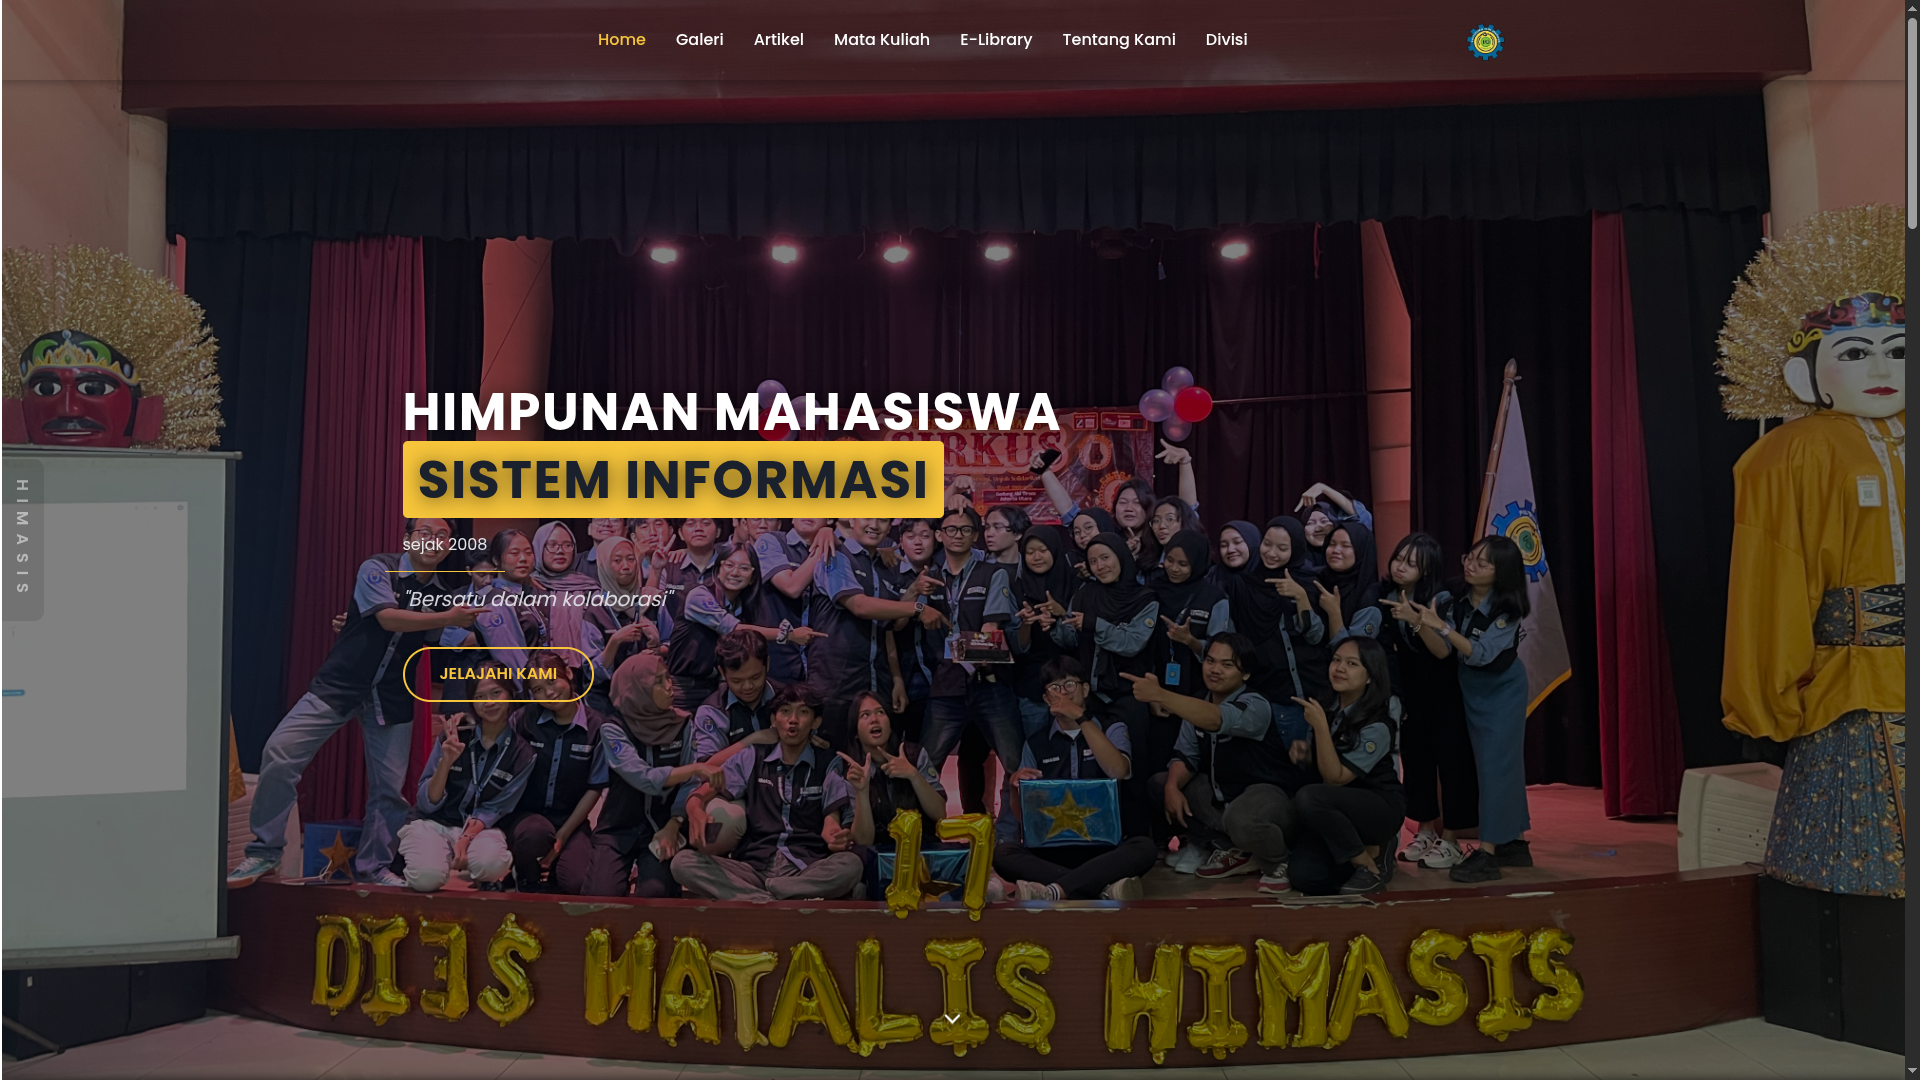
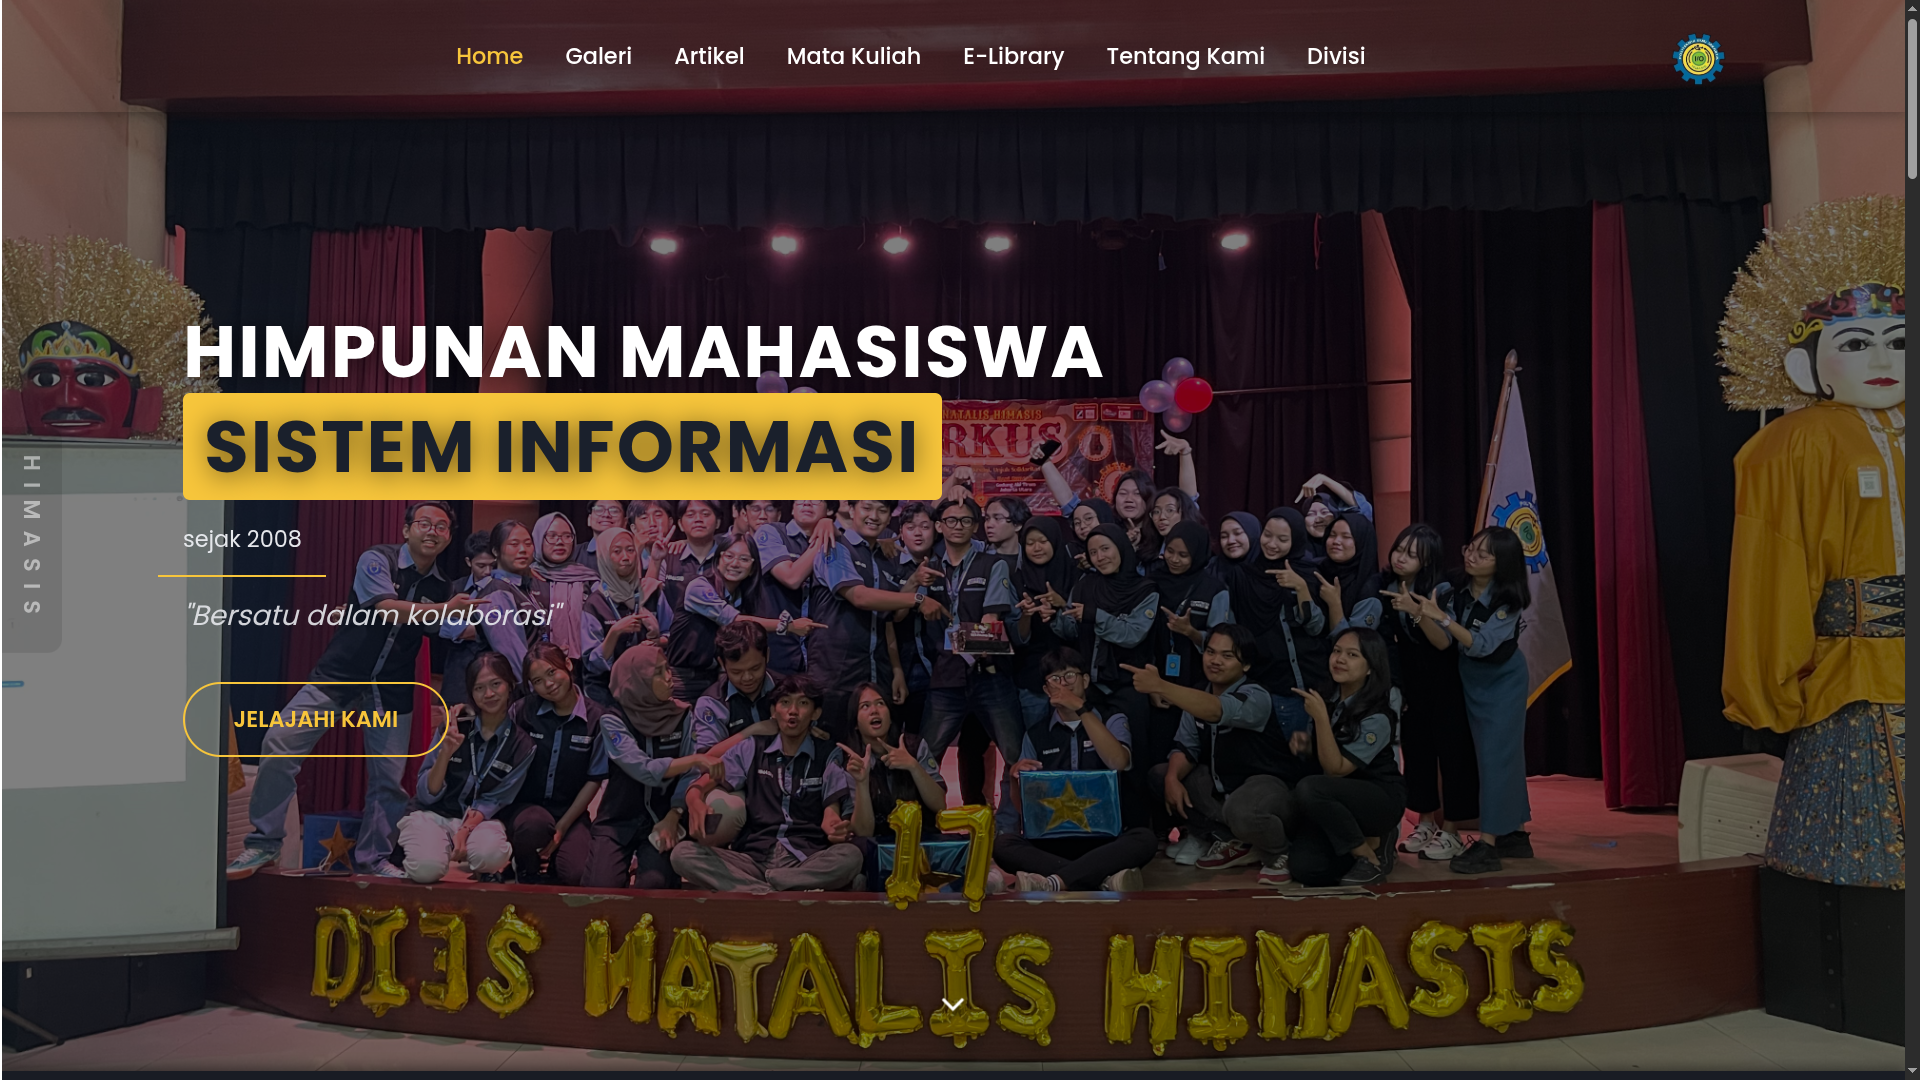
.

diff --git a/src/pages/uses/Uses.js b/src/pages/uses/Uses.js
@@ -42,7 +42,8 @@ export const Uses = () => {
                     Javascript library of choice. The component-centric mental model is
                     the first thing that truly made sense to me as a designer. and if I
                     use react, I will definitely use{' '}
-                    <Link href="https://nextjs.org/"> Next js.</Link>
+                    <Link href="https://nextjs.org/"> Next js</Link> or{' '}
+                    <Link href="https://vite.dev/"> Vite.</Link>
                   </ListItem>
                   <ListItem>
                     <Link href="https://expressjs.com/">Express </Link> is my backend
@@ -55,9 +56,8 @@ export const Uses = () => {
                     I’m also comfortable working with{' '}
                     <Link href="https://spring.io/">Spring</Link> for enterprise Java
                     applications,<Link href="https://laravel.com/"> Laravel</Link> for
-                    PHP-based systems, and{' '}
-                    <Link href="https://flask.palletsprojects.com/">Golang</Link> for best
-                    performance services. These give me the versatility to adapt to
+                    PHP-based systems, and <Link href="https://go.dev/">Golang</Link> for
+                    best performance services. These give me the versatility to adapt to
                     different project requirements
                   </ListItem>
                 </List>
@@ -69,7 +69,7 @@ export const Uses = () => {
         <ProjectSection padding="none" className={styles.section}>
           <ProjectSectionContent>
             <ProjectTextRow stretch width="m">
-              <ProjectSectionHeading>System</ProjectSectionHeading>
+              <ProjectSectionHeading>My Setup</ProjectSectionHeading>
               <Table>
                 <TableBody>
                   <TableRow>
@@ -77,11 +77,19 @@ export const Uses = () => {
                     <TableCell>Debian Linux and Windows (dualboot)</TableCell>
                   </TableRow>
                   <TableRow>
+                    <TableHeadCell>Design Architecture</TableHeadCell>
+                    <TableCell>Clean, Layered, Monolith, Microservice</TableCell>
+                  </TableRow>
+                  <TableRow>
                     <TableHeadCell>Tools</TableHeadCell>
                     <TableCell>
                       Vs Code, Intellij Idea, Collab, Datagrip, Sparx Architecture
                       Enterprise, and Docker
                     </TableCell>
+                  </TableRow>
+                  <TableRow>
+                    <TableHeadCell>DBMS</TableHeadCell>
+                    <TableCell>PostgreSql, MySql, MongoDb</TableCell>
                   </TableRow>
                 </TableBody>
               </Table>

diff --git a/src/layouts/Home/Profile.js b/src/layouts/Home/Profile.js
@@ -23,16 +23,16 @@ const ProfileText = ({ visible, titleId }) => (
     <Text className={styles.description} data-visible={visible} size="l" as="p">
       I’m Hilman, with a passion for creating dynamic and user-friendly websites.
       Currently focused on building skills in{' '}
-      <Link href="https://roadmap.sh/full-stack">software engineering</Link>, I am
-      experienced with technologies like <b>Express, Next js, Spring, Laravel, etc. </b>
-      Although my main focus is on software engineering.
+      <Link href="https://roadmap.sh/full-stack">software engineering</Link>, I enjoy
+      breaking down complex problems into <b>clear</b>, actionable solutions, thats what
+      brings me happy to do it.
     </Text>
 
     <Text className={styles.description} data-visible={visible} size="l" as="p">
       I still have a strong interest in{' '}
       <Link href="https://roadmap.sh/data-engineer">data engineering </Link>
       and enjoy integrating data-driven insights into my projects. I thrive in
-      collaborative environments, always eager to learn new skills, and excited to
+      <b> collaborative environments</b>, always eager to learn new skills, and excited to
       contribute to innovative web development projects.
     </Text>
   </Fragment>

diff --git a/src/layouts/Home/Home.js b/src/layouts/Home/Home.js
@@ -152,7 +152,7 @@ export const Home = () => {
         visible={visibleSections.includes(projectFour.current)}
         index={4}
         title="Chicken Distributor Ordering"
-        description="design and development e-commerce app to make selling chickens to the right target with html css js and PWA"
+        description="design and development e-commerce app to make selling chickens to the right target just with html css js and PWA"
         buttonText="View Website"
         buttonLink="https://web-distributor-ordering.vercel.app"
         model={{
